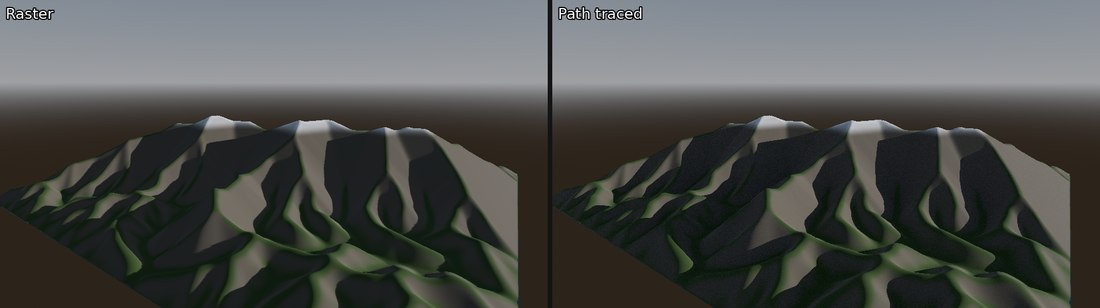
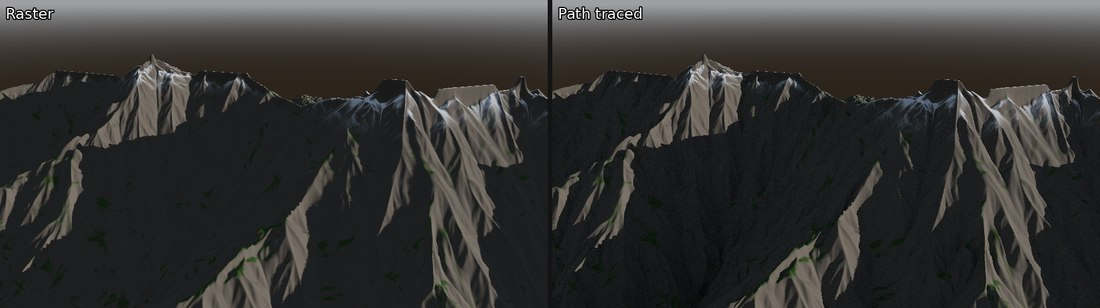
README: terrain erosion detail images, clean crests
Claude-Session: https://claude.ai/code/session_019a7Xd2PZ5gvYQ3NZ7og5rU

diff --git a/docs/REFERENCES.md b/docs/REFERENCES.md
@@ -12,7 +12,7 @@ Papers, talks and engines the fork's features follow. Code taken from other proj
 | Texture filtering | Akenine-Möller et al., *Texture Level of Detail Strategies for Real-Time Ray Tracing*, Ray Tracing Gems, 2019<br>Akenine-Möller et al., *Improved Shader and Texture Level of Detail Using Ray Cones*, JCGT 2021 |
 | Cloth tearing | NVIDIA, PhysX 2.8 tearable cloth (`NX_CLF_TEARABLE`, `tearFactor`)<br>O'Brien, Hodgins, *Graphical Modeling and Animation of Brittle Fracture*, SIGGRAPH 1999<br>Metaaphanon, Bando, Chen, Nishita, *Simulation of Tearing Cloth with Frayed Edges*, Pacific Graphics 2009<br>Macklin, Müller, Chentanez, *XPBD: Position-Based Simulation of Compliant Constrained Dynamics*, MIG 2016 |
 | Plant placement | van Muijden, *GPU-Based Run-Time Procedural Placement in Horizon: Zero Dawn*, GDC 2017<br>Bridson, *Fast Poisson Disk Sampling in Arbitrary Dimensions*, SIGGRAPH 2007 sketches<br>Wohllaib, *Procedural Grass in Ghost of Tsushima*, GDC 2021<br>Jahrmann, Wimmer, *Responsive Real-Time Grass Rendering for General 3D Scenes*, I3D 2017 |
-| Terrain generation | Cordonnier et al., *Large Scale Terrain Generation from Tectonic Uplift and Fluvial Erosion*, Computer Graphics Forum 35, 2016<br>Braun, Willett, *A Very Efficient O(n), Implicit and Parallel Method to Solve the Stream Power Equation Governing Fluvial Incision and Landscape Evolution*, Geomorphology 180, 2013<br>Schott et al., *Large-scale Terrain Authoring through Interactive Erosion Simulation*, ACM TOG 42, 2023<br>Clay John, *Eroded Terrain Noise*, Shadertoy, 2018<br>Fewes, *Terrain Erosion Noise*, Shadertoy, 2023<br>Johansen, *Fast and Gorgeous Erosion Filter*, blog, 2026<br>Priority-Flood and multiple flow direction: see Terrain analysis |
+| Terrain generation | Cordonnier et al., *Large Scale Terrain Generation from Tectonic Uplift and Fluvial Erosion*, Computer Graphics Forum 35, 2016<br>Braun, Willett, *A Very Efficient O(n), Implicit and Parallel Method to Solve the Stream Power Equation Governing Fluvial Incision and Landscape Evolution*, Geomorphology 180, 2013<br>Schott et al., *Large-scale Terrain Authoring through Interactive Erosion Simulation*, ACM TOG 42, 2023<br>Clay John, *Eroded Terrain Noise*, Shadertoy, 2018<br>Fewes, *Terrain Erosion Noise*, Shadertoy, 2023<br>Johansen, *Fast and Gorgeous Erosion Filter*, blog, 2026<br>Kass, Witkin, *Analyzing Oriented Patterns*, CVGIP 37, 1987<br>Priority-Flood and multiple flow direction: see Terrain analysis |
 | Terrain analysis | Horn, *Hill Shading and the Reflectance Map*, Proc. IEEE 69, 1981<br>Zevenbergen, Thorne, *Quantitative Analysis of Land Surface Topography*, Earth Surface Processes and Landforms 12, 1987<br>Barnes, Lehman, Mulla, *Priority-Flood: An Optimal Depression-Filling and Watershed-Labeling Algorithm for Digital Elevation Models*, Computers and Geosciences 62, 2014<br>Freeman, *Calculating Catchment Area with Divergent Flow Based on a Regular Grid*, Computers and Geosciences 17, 1991<br>Quinn, Beven, Chevallier, Planchon, *The Prediction of Hillslope Flow Paths for Distributed Hydrological Modelling Using Digital Terrain Models*, Hydrological Processes 5, 1991<br>Beven, Kirkby, *A Physically Based, Variable Contributing Area Model of Basin Hydrology*, Hydrological Sciences Bulletin 24, 1979<br>Felzenszwalb, Huttenlocher, *Distance Transforms of Sampled Functions*, Theory of Computing 8, 2012 |
 | Hair simulation | Petrovic, Henne, Anderson, *Volumetric Methods for Simulation and Rendering of Hair*, Pixar Technical Memo 06-08, 2005 |
 | Instanced animation | Dudash, *Animated Crowd Rendering*, GPU Gems 3, chapter 2, 2007 |

diff --git a/README.md b/README.md
@@ -220,7 +220,7 @@ Each feature that changes the look or the cost can be turned off with the settin
 </details>
 
 ### Terrain
-- **Mountain generation** (`TerrainGenerator3D`: `uplift`, `ranges`, `erodibility`, `critical_slope`, `detail_wavelength`, `detail_octaves`): raises ranges from an uplift map, Path3D ranges and noise, then erodes them to equilibrium with stream power erosion; branching gullies come from an erosion filter computed per point, so tiles join exactly; the same for a seed; writes into Terrain3D or a HeightMapShape3D.
+- **Mountain generation** (`TerrainGenerator3D`: `uplift`, `ranges`, `erodibility`, `critical_slope`, `detail_wavelength`, `detail_octaves`): raises ranges from an uplift map, Path3D ranges and noise, then erodes them to equilibrium with stream power erosion; branching gullies come from an erosion filter computed per point, so tiles join exactly, and fade on crests so silhouettes stay clean; the same for a seed; writes into Terrain3D or a HeightMapShape3D.
 - **Terrain deformation** (`TerrainDeformer3D`, `TerrainBrush3D`): non-destructive height brushes (rivers, craters, plots) over Terrain3D or a height map; moving a brush restores the ground.
 - **Terrain data maps** (`TerrainDataMap3D`): bakes slope, curvature, water flow, wetness, water depth and distance to water around a point, for placing plants and for materials; a 512 map bakes once in about 0.2 s.
 
@@ -230,9 +230,17 @@ Each feature that changes the look or the cost can be turned off with the settin
 
 *Mountain generation: ridges, valleys and the rivers that carved them, from one seed.*
 
-![The generated range, raster and path traced](docs/media/terrain-generator.jpg)
+![The generated range with erosion detail, raster](docs/media/terrain-detail-wide.jpg)
 
-*Mountain generation: the same range in 3D, raster and path traced.*
+*Mountain generation: branching gullies down every slope.*
+
+![Close view of the generated peaks, raster and path traced](docs/media/terrain-generator.jpg)
+
+*Mountain generation up close, raster and path traced.*
+
+![Summit crests before and after detail fades on crests](docs/media/terrain-crest.jpg)
+
+*Crests: before, a thin comb along the summits; after, clean silhouettes.*
 
 ![Slope, curvature, flow, wetness and distance-to-water maps of a valley, and the valley coloured from them](docs/media/terrain-data-maps.jpg)
 

diff --git a/changelog.d/readme-terrain-crests.md b/changelog.d/readme-terrain-crests.md
@@ -1,0 +1,3 @@
+### Changed
+
+- README: terrain erosion detail images; detail fades on crests.
